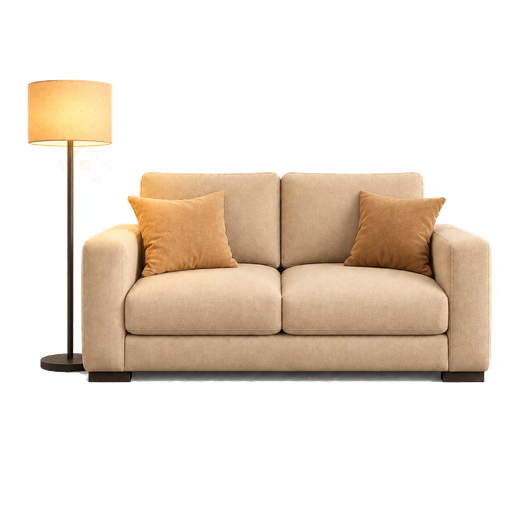
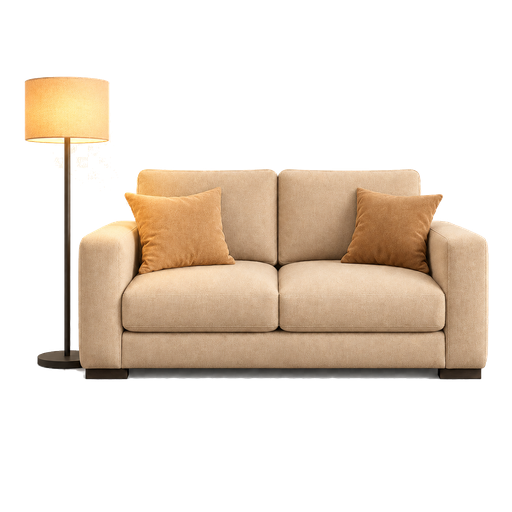
Shift living room asset alignment

Changed region(s): [[0.0312, 0.125, 0.9688, 0.75]]

diff --git a/config/www/bruno-ui/cards/bruno-sala-card.js b/config/www/bruno-ui/cards/bruno-sala-card.js
@@ -1310,8 +1310,8 @@ class BrunoSalaCard extends HTMLElement {
     return `
       <span class="room-asset-wrap">
         <span class="room-asset-fallback">${BrunoSalaCard._roomIcon(active)}</span>
-        <img class="room-asset room-asset-off" src="/local/bruno-ui/assets/living-room-off.png?v=20260608-room-assets-uniform-1" alt="" loading="eager" decoding="async">
-        <img class="room-asset room-asset-on" src="/local/bruno-ui/assets/living-room-on.png?v=20260608-room-assets-uniform-1" alt="" loading="eager" decoding="async">
+        <img class="room-asset room-asset-off" src="/local/bruno-ui/assets/living-room-off.png?v=20260608-sala-shift-1" alt="" loading="eager" decoding="async">
+        <img class="room-asset room-asset-on" src="/local/bruno-ui/assets/living-room-on.png?v=20260608-sala-shift-1" alt="" loading="eager" decoding="async">
       </span>
     `;
   }

diff --git a/config/www/bruno-ui/cards/bruno-mobile-sala-card.js b/config/www/bruno-ui/cards/bruno-mobile-sala-card.js
@@ -37,8 +37,8 @@ class BrunoMobileSalaCard extends HTMLElement {
       name: 'Sala',
       navigation_path: 'subview-sala',
       icon: {
-        off: '/local/bruno-ui/assets/living-room-off.png?v=20260608-room-assets-uniform-1',
-        on: '/local/bruno-ui/assets/living-room-on.png?v=20260608-room-assets-uniform-1',
+        off: '/local/bruno-ui/assets/living-room-off.png?v=20260608-sala-shift-1',
+        on: '/local/bruno-ui/assets/living-room-on.png?v=20260608-sala-shift-1',
       },
       ...config,
       entities,
